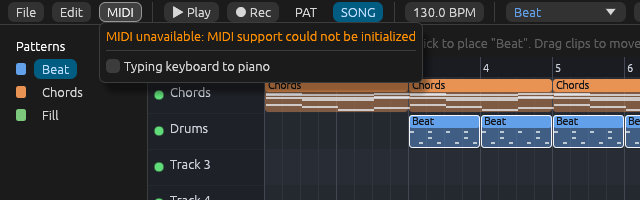
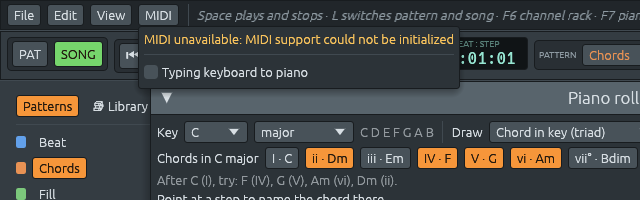
Book: new screenshots in the current look
The screenshots of steps 2 to 8 taken before the darker look are taken
again, and the captions that no longer matched are adjusted. The step 5
export strips and the step 8 zoom picture stay as they were.

Assisted-by: Claude Code

diff --git a/src/step-8/README.md b/src/step-8/README.md
@@ -47,9 +47,9 @@ and a library to go with them:
 - **patterns up to sixteen bars long**, so a whole twelve-bar blues fits
   in one pattern.
 
-![The harmony keys while the demo song plays. F (IV) is held down, in orange on the keyboard; the song is playing A minor, in blue. After IV, the keys outlined in yellow (I, ii and V) often come next.](../images/step-8-harmony-keys.png)
+![The harmony keys while the demo song plays. F (IV) is held down, in orange on the keyboard; the song is playing A minor, in blue. The keys outlined in yellow are the chords that often come after IV.](../images/step-8-harmony-keys.png)
 
-![The Library tab. Bossa nova has just been tried: it is playing in its own pattern, and its tooltip shows its chords in C major. The harmony keys follow it: Dm7 is playing, so ii is lit, and V and vii° are outlined as the chords that often come next.](../images/step-8-library.png)
+![The Library tab. Bossa nova has just been tried: it is in its own pattern, and its tooltip shows its chords in C major, its tempo and its rhythm.](../images/step-8-library.png)
 
 ![File > Demos: the starting song, the songs, and every style by genre](../images/step-8-demos.png)
 

diff --git a/src/step-7/README.md b/src/step-7/README.md
@@ -30,7 +30,7 @@ it, both ways:
 
 ![Holding A minor on the typing keyboard. The three keys light up in orange, the line above the grid names the chord, and the chords that often follow it are highlighted.](../images/step-7-held.png)
 
-![A take of C, Am, F and G, recorded with the typing keyboard at 90 BPM. The Am came in a little late, so it starts on step 6 instead of step 5: recording moves each note to the nearest step, not to where you meant it.](../images/step-7-take.png)
+![A take of C, Am, F and G, one chord a beat, recorded with the typing keyboard while a one-bar pattern looped. The chords came in a little late, and the G spilled over into the next time round, so it shows at both ends: recording moves each note to the nearest step, not to where you meant it.](../images/step-7-take.png)
 
 ![A MIDI Out channel in the rack, and its MIDI channel menu](../images/step-7-midi-out.png)
 

diff --git a/src/step-8/patterns-and-demos.md b/src/step-8/patterns-and-demos.md
@@ -77,7 +77,7 @@ song's form. *Für Elise* has no drums at all, and its left hand is
 written out note by note instead of being made from chords, because
 Beethoven's left hand *is* the accompaniment.
 
-![Für Elise from File > Demos: a pattern per part, placed in the order of the song's form. It is in 3/8, so the rack has six steps to the bar, and in A harmonic minor, which the harmony keys show with its own seven chords.](../images/step-8-fur-elise.png)
+![Für Elise from File > Demos: a pattern per part, placed in the order of the song's form. It is in 3/8, so a bar has six steps, and in A harmonic minor, which the harmony keys show with its own seven chords.](../images/step-8-fur-elise.png)
 
 Both return an ordinary `Project`. A demo is not special in any way:
 you can change it, save it and take it apart like anything you made.

diff --git a/src/step-6/README.md b/src/step-6/README.md
@@ -38,7 +38,7 @@ to write next:
 Every tool is one undo step, and every drag is one step too, however far
 it goes.
 
-![The suggestions after a C chord, and the reason for one of them. The grey notes are ghost notes from the Bass channel.](../images/step-6-suggestions.png)
+![Pointing at the C chord: the line above the grid says what often comes after it, and those chord buttons light up.](../images/step-6-suggestions.png)
 
 ![The Tools menu, with the A minor chord selected (white borders)](../images/step-6-tools.png)
 

diff --git a/src/step-8/song-structure.md b/src/step-8/song-structure.md
@@ -20,8 +20,7 @@ screen said "this is the chorus". This page adds three things:
   that part while you work on it.
 
 ![The chorus is marked "×2". While the song plays it the second time, the
-section says "▶ 2 of 2". The fill clip repeats its one-bar pattern three
-times.](../images/step-8-sections-playing.png)
+section says "▶ 2 of 2".](../images/step-8-sections-playing.png)
 
 ## Using it
 
